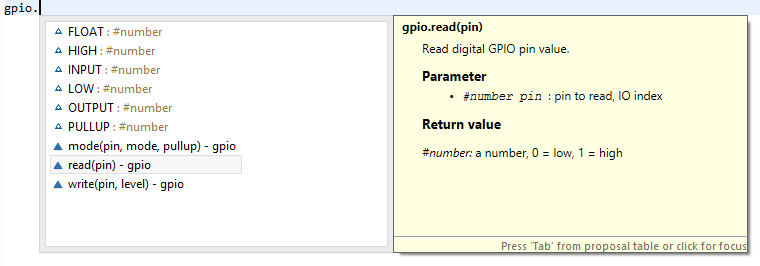
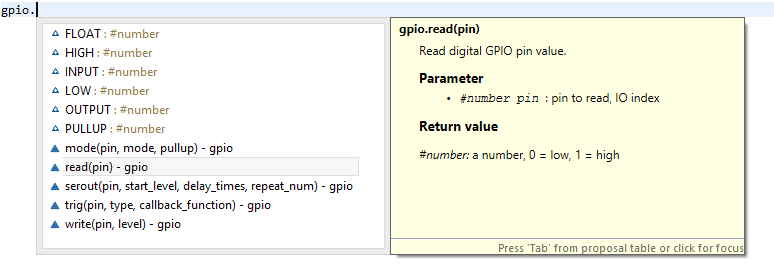
finished most important wifi functions
almost all wifi functions integrated
changed readme
added new autocomplete pic

Changed region(s): [[0.0, 0.0, 0.9987, 0.9624], [0.5447, 0.5414, 0.8171, 0.6015]]

diff --git a/README.md b/README.md
@@ -40,6 +40,7 @@ If your project's Execution Environment is set correctly, you will get autocompl
 
 Note: The default Lua modules "io" and "os" are not available in NodeMCU (http://nodemcu.readthedocs.io/en/dev/en/lua-developer-faq/#how-is-nodemcu-lua-different-to-standard-lua).
 I made a screenshot from ESPlorer to show which default Lua modules are available. (The romtable addresses may differ in your firmware.)
+Not all functions from "math" are available! Consider https://github.com/nodemcu/nodemcu-firmware/blob/master/app/lua/lmathlib.c to see which functions can be used.
 
 ![Default Lua modules in NodeMCU](/pics/nodemcu-default-lua-modules01.png?raw=true)
 
@@ -49,22 +50,23 @@ In addition you see which modules are availabe in the specific NodeMCU versions.
 
 Note: The IDE doesn't know which modules are included in your custom NodeMCU firmware.
 You will always get displayed all modules for autocompletion that are in the Execution Environment Zip!
+Some modules include functions that are not available in 1.4.0 but 1.5.1 (e.g. `wifi.sta.getrssi()`).
 
-| Module       | Integration  | NodeMCU 1.4.0 | NodeMCU 1.5.1 |
-| ------------ |:------------:|:-------------:|:-------------:|
-| am2320       | no           | no            | yes           |
-| bit          | full         | yes           | yes           |
-| dht          | full         | yes           | yes           |
-| file         | partly       | yes           | yes           |
-| gpio         | full         | yes           | yes           |
-| http         | no           | no            | yes           |
-| i2c          | full         | yes           | yes           |
-| mqtt         | no           | yes           | yes           |
-| net          | partly       | yes           | yes           |
-| node         | partly       | yes           | yes           |
-| ow           | no           | yes           | yes           |
-| tmr          | full         | yes           | yes           |
-| wifi         | partly       | yes           | yes           |
+| Module       | Integration  | NodeMCU 1.4.0 | NodeMCU 1.5.1 | Comment                                |
+| ------------ |:------------:|:-------------:|:-------------:| -------------------------------------- |
+| am2320       | no           | no            | yes           |                                        |
+| bit          | full         | yes           | yes           |                                        |
+| dht          | full         | yes           | yes           |                                        |
+| file         | partly       | yes           | yes           |                                        |
+| gpio         | full         | yes           | yes           |                                        |
+| http         | no           | no            | yes           |                                        |
+| i2c          | full         | yes           | yes           |                                        |
+| mqtt         | no           | yes           | yes           |                                        |
+| net          | partly       | yes           | yes           |                                        |
+| node         | partly       | yes           | yes           |                                        |
+| ow           | no           | yes           | yes           |                                        |
+| tmr          | full         | yes           | yes           |                                        |
+| wifi         | full\*       | yes           | yes           | \*full, except: eventmon, sleep, smart |
 
 * You need a module that isn't already listed here?
 
